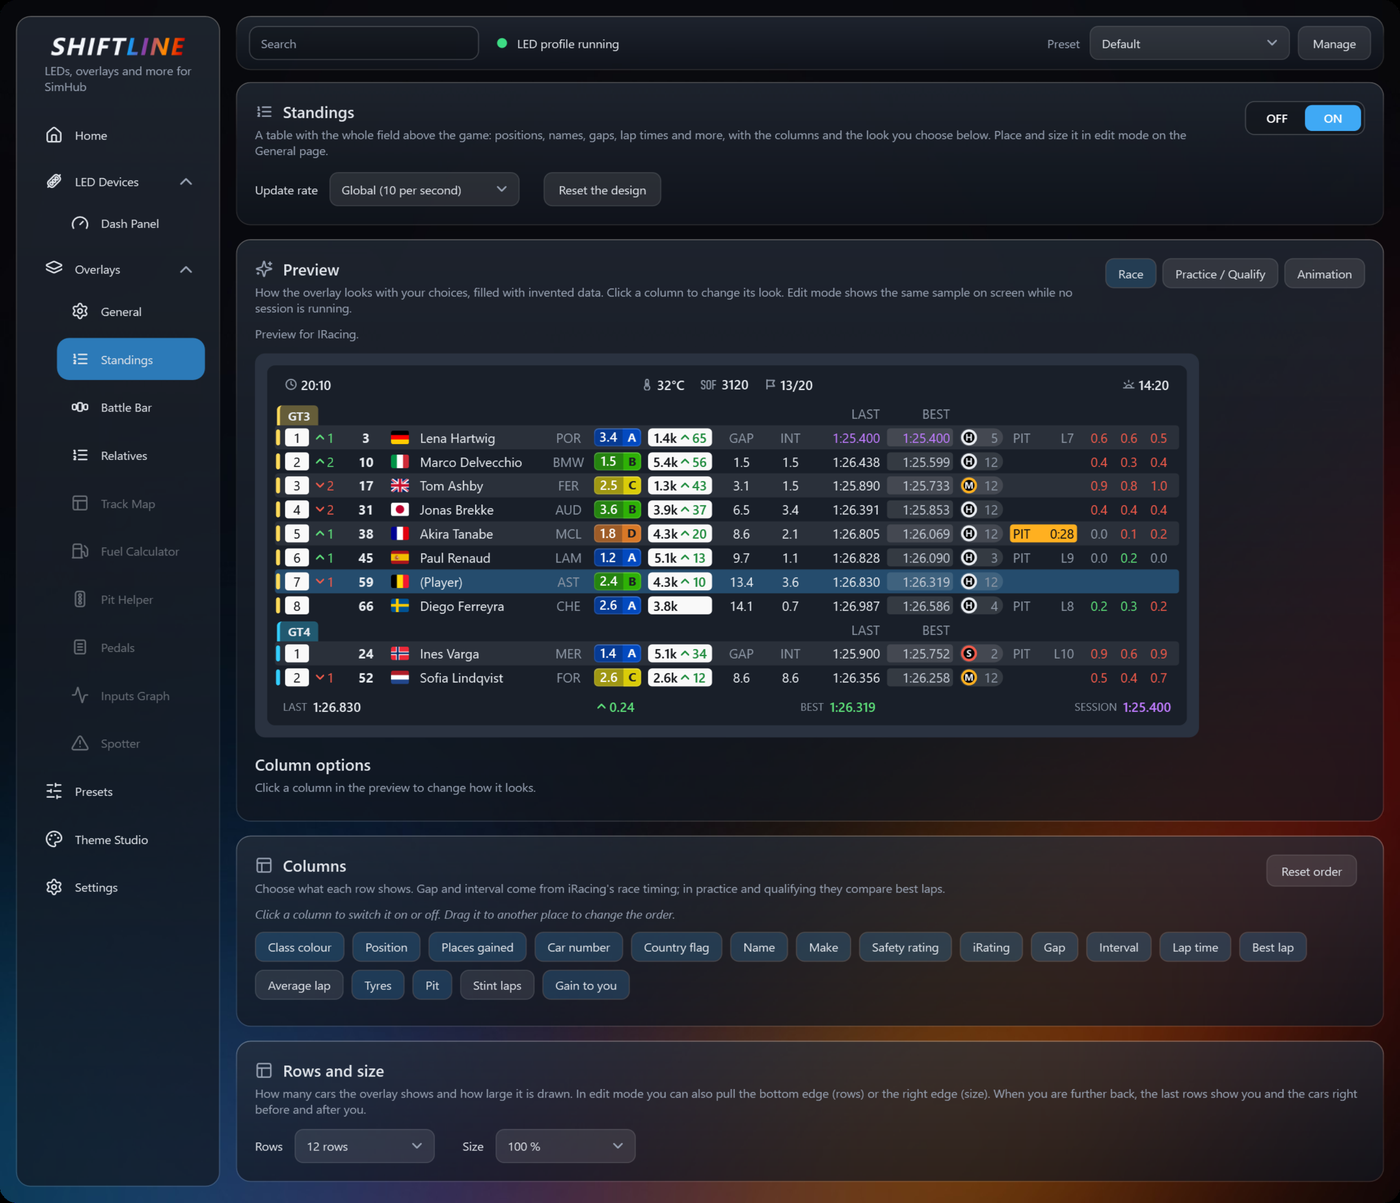
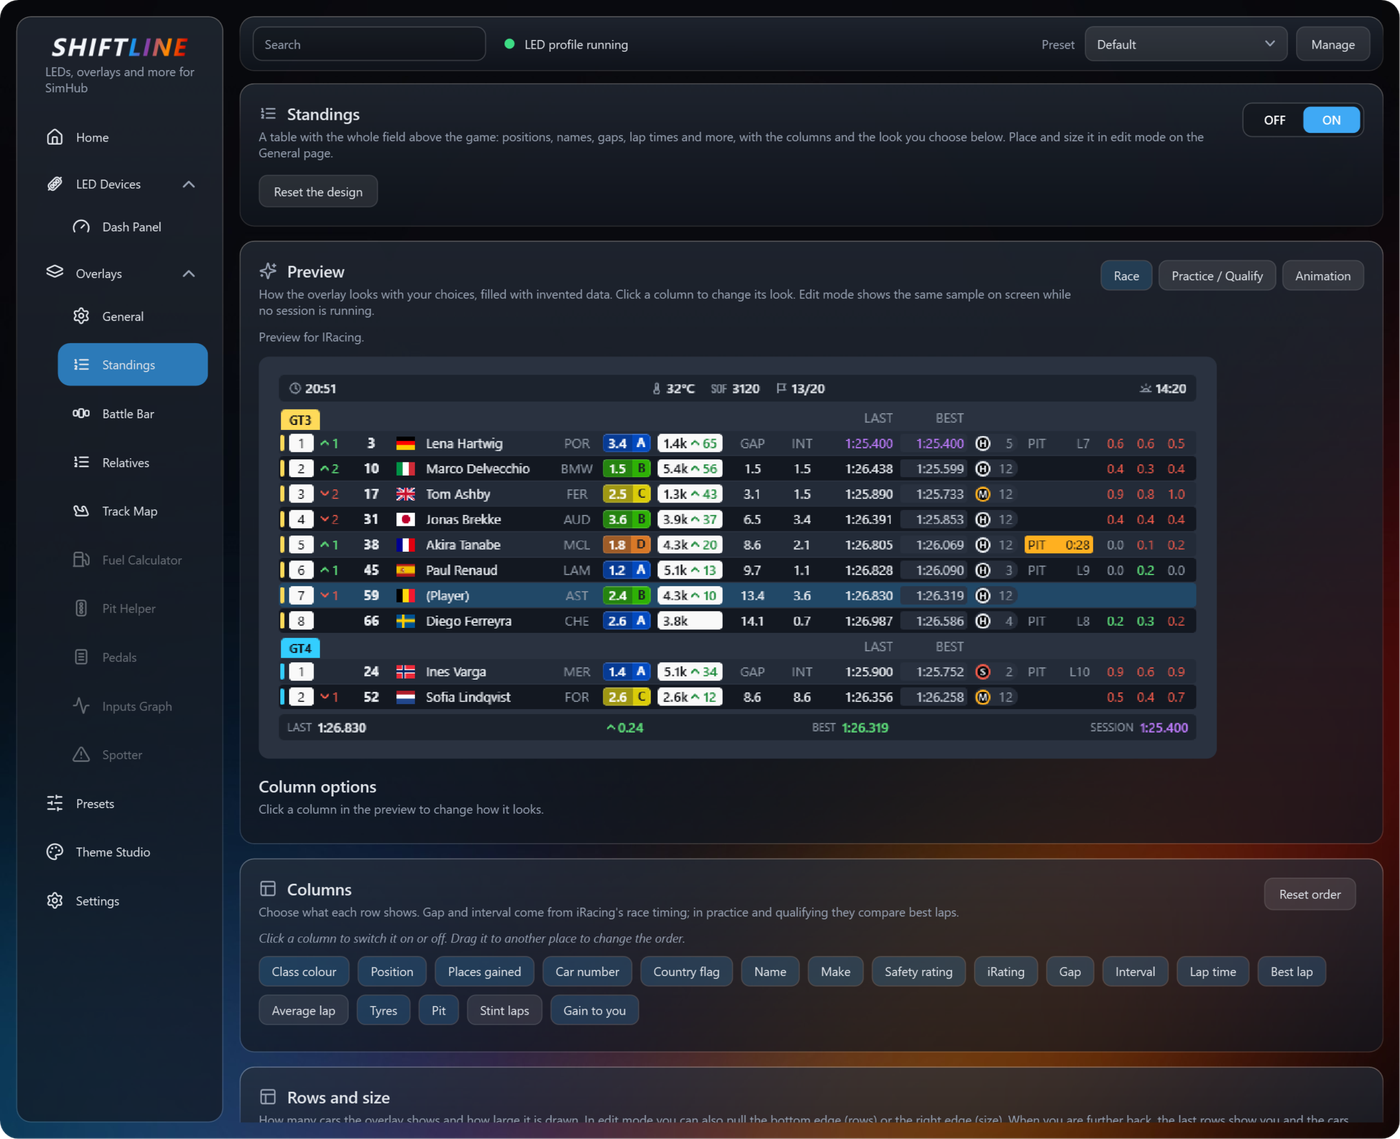
Shiftline 0.4.0
README: track map, SimHub 9.13.7, new pictures from the HTML overlays. make-release checks the SimHub version named in the README.

Fixes #26

diff --git a/plugin/Shiftline/Properties/AssemblyInfo.cs b/plugin/Shiftline/Properties/AssemblyInfo.cs
@@ -6,6 +6,6 @@ using System.Runtime.InteropServices;
 [assembly: AssemblyProduct("Shiftline")]
 [assembly: ComVisible(false)]
 [assembly: Guid("6f1e0f0a-5b0e-4c5e-9d57-3a2f7a6c8b41")]
-[assembly: AssemblyVersion("0.3.0.0")]
-[assembly: AssemblyFileVersion("0.3.0.0")]
-[assembly: AssemblyInformationalVersion("0.3.0")]
+[assembly: AssemblyVersion("0.4.0.0")]
+[assembly: AssemblyFileVersion("0.4.0.0")]
+[assembly: AssemblyInformationalVersion("0.4.0")]

diff --git a/README.md b/README.md
@@ -3,9 +3,9 @@
 Shiftline aims to be one free plugin for everything around SimHub: LED devices, on-screen overlays, and later dashboards and control devices.
 
 - **LEDs:** rev lights, brake and pedal bars, fuel, flags and effects for any SimHub LED device, with presets per game and car.
-- **Overlays:** standings, relatives and a battle bar, more are on the way.
+- **Overlays:** standings, relatives, a battle bar and a track map, more are on the way.
 
-> **Shiftline is still in beta.** The LED part has been tested by one person on one device (an Arduino with a WS2812B strip, 5 | 16 | 5 LEDs, SimHub 9.13.3, mainly iRacing). The overlays are new: the standings, relatives and battle bar were tested in iRacing only, other games use SimHub's opponent data and are untested. Please report what you find.
+> **Shiftline is still in beta.** The LED part has been tested by one person on one device (an Arduino with a WS2812B strip, 5 | 16 | 5 LEDs, SimHub 9.13.7, mainly iRacing). The overlays are new: the standings, relatives, battle bar and track map were tested in iRacing, the track map also in Assetto Corsa and Automobilista 2; other games use SimHub's opponent data and are untested. Please report what you find.
 
 <img src="docs/images/dash-panel.png" width="830" alt="The Dash Panel page of Shiftline">
 
@@ -45,12 +45,16 @@ Untested so far: ERS mode and the safety car delta (F1 games).
 
 *Battle Bar: you in the middle, the cars around you with gaps, trend arrows and a battle frame (invented data)*
 
+<img src="docs/images/track-map.png" width="495" alt="The Track Map">
+
+*Track Map: the real track shape with the cars, lap rings and the pit lane (invented data)*
+
 - **Standings:** position, class colour, places gained, car number, country flag (iRacing), name, car make, licence and iRating with an estimated change (iRacing), gap and interval, last lap, tyres, pit stops and the live delta to the cars around you. Header with session, track, time left, SOF and clock; footer with your last, best and delta
 - **Relatives:** the cars around you on the track with the gap to you, in the same look as the standings. How many cars you see in front and behind is up to you
 - **Battle Bar:** you in the middle with the cars around you, or a ticker with the field like on TV (fixed or running), with gaps, trend arrows, country flags and a battle frame
 - **Track Map:** the track as its real shape for iRacing and many tracks in other SimHub games (about 400 layouts built in), or as a ring or a line when no shape is known. Cars with lap rings, the fastest lap, the pit lane and an animated start/finish line
 - Every column can be switched and styled: number styles, name formats, decimals, backgrounds, fonts (Inter and Saira SemiCondensed built in), rounded or square corners, rows and size
-- **Main settings** on the General page: update rate, background opacity of the rows and of the header and footer, font, weight and corners for all overlays at once. Each overlay page follows them ("Same as in General") or has its own values
+- **Main settings** on the General page: update rate and frame rate, overlay, table and header opacity, row spacing, font, weight and corners for all overlays at once. Each overlay page follows them ("Same as in General") or has its own values
 - Classes on their own, grouped or mixed; animated position changes
 - **Edit mode** to drag and size the overlays, also on a second monitor. They show only while the game is in front, and hide in replays and the garage unless you switch that on
 - Other games (Assetto Corsa, Automobilista, rFactor and more) use SimHub's data. Columns a game does not provide are hidden
@@ -80,9 +84,10 @@ Without the installer, copy `Shiftline.Plugin.dll` from a release into the SimHu
 
 ## Known limits
 
-- Tested with SimHub 9.13.3 on Windows with one Arduino strip. Please open an issue with your SimHub version, game and the system log (Shiftline > Settings) when something does not work.
+- Tested with SimHub 9.13.7 on Windows with one Arduino strip. Please open an issue with your SimHub version, game and the system log (Shiftline > Settings) when something does not work.
 - ERS mode and the safety car delta use SimHub property names found by research, not confirmed in a real F1 game.
 - Overlays need the game in windowed or borderless mode.
+- The overlays are drawn with Microsoft's WebView2 Runtime (part of Windows 10 and 11). If it is missing, the General page says so.
 
 ## Build from source
 

diff --git a/docs/RELEASE.md b/docs/RELEASE.md
@@ -26,6 +26,8 @@ powershell -ExecutionPolicy Bypass -File tools\make-release.ps1
 
 The script builds the Release DLL, creates the checksum of that DLL, compiles the installer and puts all three files into `release\<version>\` (the folder opens when it is done). It checks that the checksum file matches the DLL it copied. It needs Visual Studio, Inno Setup 6 and `SIMHUB_INSTALL_PATH`. With `-SkipBuild` it packages the DLL that is already in `plugin\Shiftline\bin\Release`.
 
+Before it builds, the script compares the SimHub version named in `README.md` ("SimHub x.y.z") with the installed `SimHubWPF.exe` and stops when they differ. Run it once with `-UpdateReadme`: it writes the installed version into the README; commit that and run the script again.
+
 Always upload the files from that folder. The order matters: the checksum has to be created after the **last** build of the DLL, and the installer after that. Doing it by hand: build Release in Visual Studio, `(Get-FileHash .\Shiftline.Plugin.dll -Algorithm SHA256).Hash | Set-Content -NoNewline Shiftline.Plugin.dll.sha256`, then compile `installer\Shiftline.iss` with Inno Setup 6 (`ISCC.exe /DAppVersion=0.2.1 installer\Shiftline.iss`).
 
 The installer:
